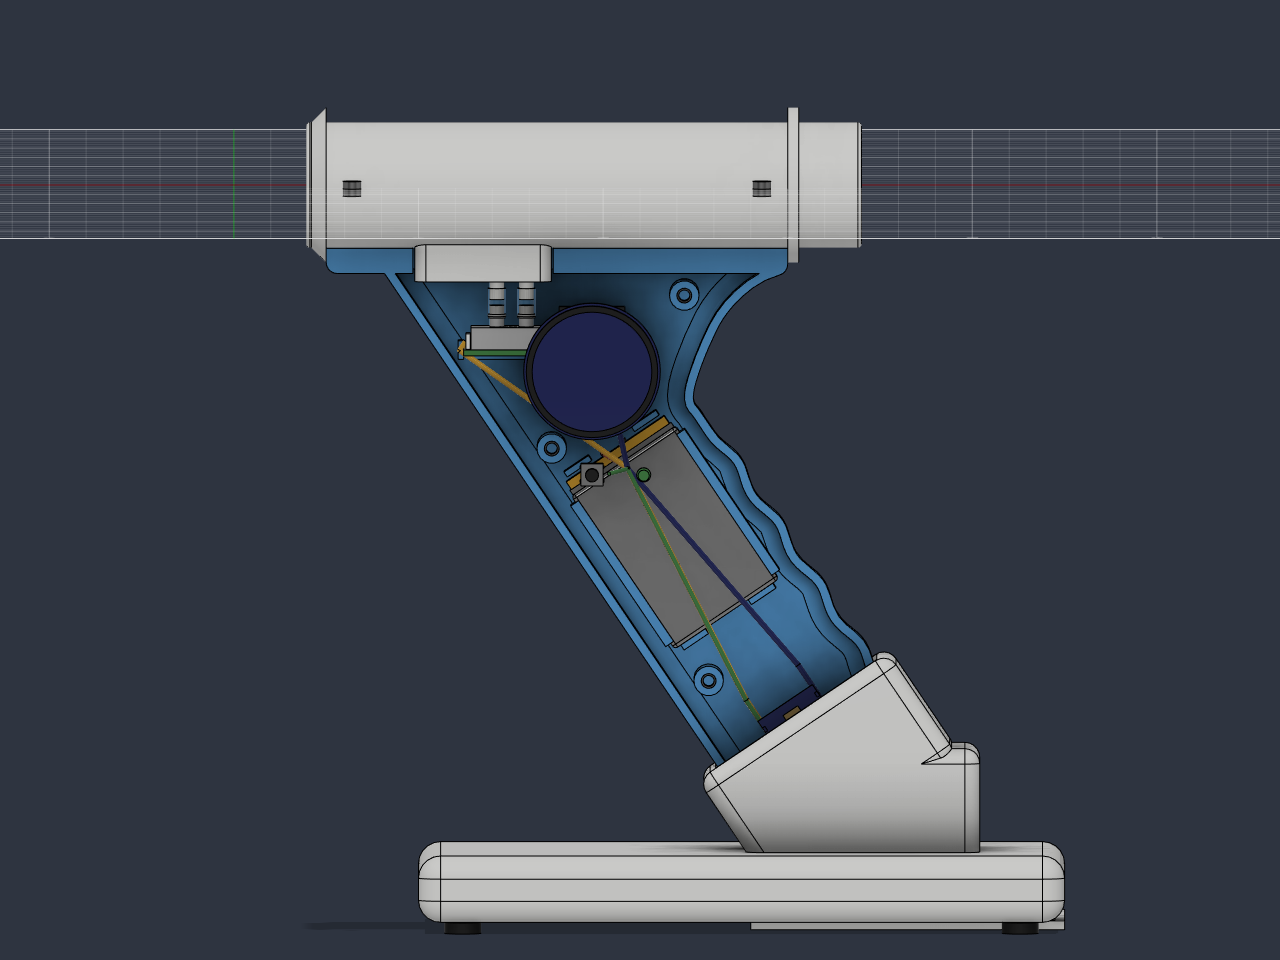
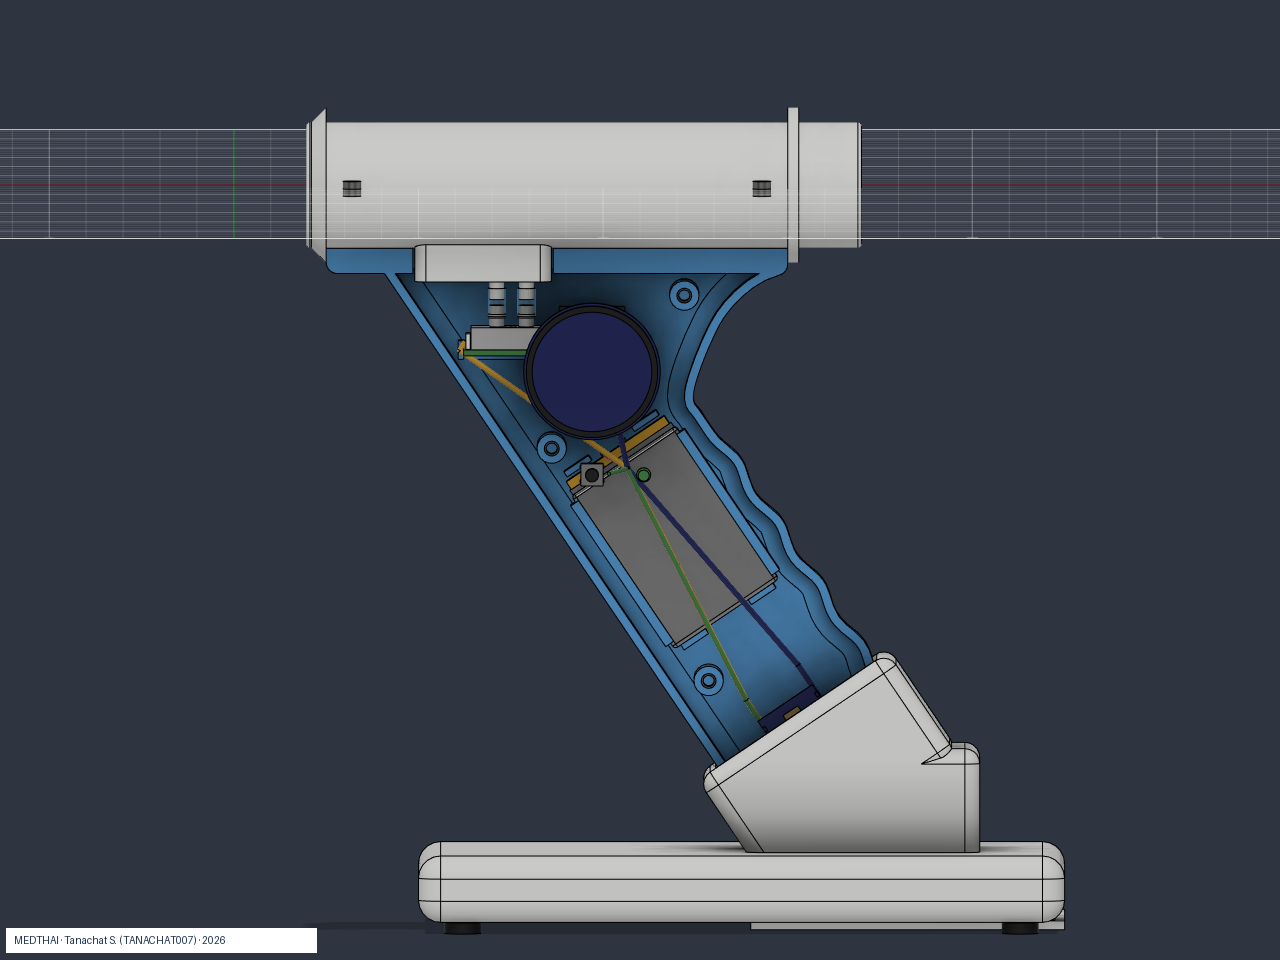
Add authorship credit: licenses, CREDITS, file headers, STL/STEP metadata, watermarks

Changed region(s): [[0.0, 0.9688, 0.25, 1.0]]

diff --git a/10_manual/web/index.html b/10_manual/web/index.html
@@ -1,6 +1,9 @@
 <!doctype html>
 <html lang="th">
 <head>
+<!-- CREDIT-STAMP: DIY IoT Spirometer - designed by Tanachat S. (TANACHAT007) / MEDTHAI - 2026 - https://github.com/TANACHAT007/diy-spirometer -->
+<meta name="author" content="Tanachat S. (TANACHAT007) / MEDTHAI">
+
 <meta charset="utf-8">
 <meta name="viewport" content="width=device-width,initial-scale=1">
 <title>Spiro Dashboard</title>
@@ -135,5 +138,6 @@ if(localStorage.th)document.documentElement.dataset.theme=localStorage.th;
 $('c_db').value=cfg.db||'';$('c_dev').value=cfg.dev||'';$('c_auth').value=cfg.auth||'';$('c_pred').value=cfg.pred||'';
 $('role').onchange();applyText();load();setInterval(load,5000);addEventListener('resize',draw);
 </script>
+<div class="credit-footer" style="text-align:center;font-size:12px;opacity:.7;padding:18px 0 28px">ออกแบบโดย Tanachat S. (TANACHAT007) · ทีม MEDTHAI · 2026</div>
 </body>
 </html>

diff --git a/10_manual/web/dashboard_artifact.html b/10_manual/web/dashboard_artifact.html
@@ -1,3 +1,5 @@
+<!-- CREDIT-STAMP: DIY IoT Spirometer - designed by Tanachat S. (TANACHAT007) / MEDTHAI - 2026 - https://github.com/TANACHAT007/diy-spirometer -->
+<meta name="author" content="Tanachat S. (TANACHAT007) / MEDTHAI">
 
 <title>Spiro Dashboard</title>
 <meta name="claude:viewport-fit-sides" content="cover">
@@ -131,3 +133,4 @@ if(localStorage.th)document.documentElement.dataset.theme=localStorage.th;
 $('c_db').value=cfg.db||'';$('c_dev').value=cfg.dev||'';$('c_auth').value=cfg.auth||'';$('c_pred').value=cfg.pred||'';
 $('role').onchange();applyText();load();setInterval(load,5000);addEventListener('resize',draw);
 </script>
+<div class="credit-footer" style="text-align:center;font-size:12px;opacity:.7;padding:18px 0 28px">ออกแบบโดย Tanachat S. (TANACHAT007) · ทีม MEDTHAI · 2026</div>

diff --git a/10_manual/web/product_page.html b/10_manual/web/product_page.html
@@ -1,3 +1,5 @@
+<!-- CREDIT-STAMP: DIY IoT Spirometer - designed by Tanachat S. (TANACHAT007) / MEDTHAI - 2026 - https://github.com/TANACHAT007/diy-spirometer -->
+<meta name="author" content="Tanachat S. (TANACHAT007) / MEDTHAI">
 <title>DIY IoT Spirometer</title>
 <meta name="claude:viewport-fit-sides" content="cover">
 <link rel="preconnect" href="https://fonts.googleapis.com">
@@ -406,3 +408,4 @@ $("run").onclick=()=>{
 };
 drawFV(); requestAnimationFrame(draw);
 </script>
+<div class="credit-footer" style="text-align:center;font-size:12px;opacity:.7;padding:18px 0 28px">ออกแบบโดย Tanachat S. (TANACHAT007) · ทีม MEDTHAI · 2026</div>

diff --git a/10_manual/web/product_page.src.html b/10_manual/web/product_page.src.html
@@ -1,3 +1,5 @@
+<!-- CREDIT-STAMP: DIY IoT Spirometer - designed by Tanachat S. (TANACHAT007) / MEDTHAI - 2026 - https://github.com/TANACHAT007/diy-spirometer -->
+<meta name="author" content="Tanachat S. (TANACHAT007) / MEDTHAI">
 <title>DIY IoT Spirometer</title>
 <meta name="claude:viewport-fit-sides" content="cover">
 <link rel="preconnect" href="https://fonts.googleapis.com">
@@ -370,3 +372,4 @@ $("run").onclick=()=>{
 };
 drawFV(); requestAnimationFrame(draw);
 </script>
+<div class="credit-footer" style="text-align:center;font-size:12px;opacity:.7;padding:18px 0 28px">ออกแบบโดย Tanachat S. (TANACHAT007) · ทีม MEDTHAI · 2026</div>

diff --git a/apply_credit.py b/apply_credit.py
@@ -1,0 +1,145 @@
+"""Stamps authorship credit into every deliverable so it travels with each download.
+Edit NAME / TEAM / URL below, then run:  py apply_credit.py   (idempotent: re-running just refreshes the stamp)
+Touches: LICENSE, LICENSE-DESIGN, CREDITS.md, README header, source-file headers, HTML meta+footer, STL header bytes, STEP header, render watermarks.
+"""
+import os, re, struct
+NAME = 'Tanachat S.'
+HANDLE = 'TANACHAT007'
+TEAM = 'MEDTHAI'
+URL = 'https://github.com/TANACHAT007/diy-spirometer'
+YEAR = '2026'
+LINE = f'DIY IoT Spirometer - designed by {NAME} ({HANDLE}) / {TEAM} - {YEAR} - {URL}'
+TAG = 'CREDIT-STAMP'
+ROOT = os.path.dirname(os.path.abspath(__file__))
+P = lambda *a: os.path.join(ROOT, *a)
+
+def w(path, text):
+    open(path, 'w', encoding='utf-8', newline='\n').write(text)
+
+# ---- license + credits files
+w(P('LICENSE'), f"""MIT License (source code: firmware, model.py, scripts, web pages)
+
+Copyright (c) {YEAR} {NAME} ({HANDLE}) / {TEAM}
+
+Permission is hereby granted, free of charge, to any person obtaining a copy of this software and associated documentation files
+(the "Software"), to deal in the Software without restriction, including without limitation the rights to use, copy, modify, merge,
+publish, distribute, sublicense, and/or sell copies of the Software, and to permit persons to whom the Software is furnished to do so,
+subject to the following conditions:
+
+The above copyright notice and this permission notice shall be included in all copies or substantial portions of the Software.
+
+THE SOFTWARE IS PROVIDED "AS IS", WITHOUT WARRANTY OF ANY KIND, EXPRESS OR IMPLIED, INCLUDING BUT NOT LIMITED TO THE WARRANTIES OF
+MERCHANTABILITY, FITNESS FOR A PARTICULAR PURPOSE AND NONINFRINGEMENT. IN NO EVENT SHALL THE AUTHORS OR COPYRIGHT HOLDERS BE LIABLE
+FOR ANY CLAIM, DAMAGES OR OTHER LIABILITY, WHETHER IN AN ACTION OF CONTRACT, TORT OR OTHERWISE, ARISING FROM, OUT OF OR IN CONNECTION
+WITH THE SOFTWARE OR THE USE OR OTHER DEALINGS IN THE SOFTWARE.
+
+NOT A MEDICAL DEVICE: this project is an educational / screening prototype and has not been clinically validated.
+""")
+w(P('LICENSE-DESIGN'), f"""Creative Commons Attribution 4.0 International (CC BY 4.0)
+Applies to: CAD models, STL/STEP files, renders, PCB files, BOM, manuals, posters, written documents.
+
+Copyright (c) {YEAR} {NAME} ({HANDLE}) / {TEAM}
+
+You are free to share and adapt this material for any purpose, even commercially, as long as you give appropriate credit:
+  "{LINE}"
+provide a link to the license, and indicate if changes were made.
+Full text: https://creativecommons.org/licenses/by/4.0/legalcode
+""")
+w(P('CREDITS.md'), f"""# Credits
+
+**Designed and built by {NAME}** (GitHub: [{HANDLE}](https://github.com/{HANDLE})) - team **{TEAM}**, {YEAR}.
+
+If you reuse, remix or print this work, please keep this credit:
+
+> {LINE}
+
+- Code: MIT (`LICENSE`) - keep the copyright notice.
+- Designs / documents / models: CC BY 4.0 (`LICENSE-DESIGN`) - attribution required.
+- Prepared for International Youth Summit (IYS) 2026, sub-theme Health.
+
+Third-party parts are credited to their makers (Sensirion SDP810, Seeed XIAO ESP32, GC9A01 modules); their names are used only to identify compatible parts.
+""")
+
+# ---- README header
+rd = open(P('README.md'), encoding='utf-8').read()
+rd = re.sub(r'<!-- ' + TAG + r' -->.*?<!-- /' + TAG + r' -->\n*', '', rd, flags=re.S)
+rd = f"<!-- {TAG} -->\n> **Designed by {NAME} ({HANDLE}) / {TEAM}, {YEAR}** - please keep this credit when you use or share this work. See [CREDITS.md](CREDITS.md).\n<!-- /{TAG} -->\n\n" + rd
+w(P('README.md'), rd)
+
+# ---- source headers
+def stamp_text(path, c):
+    t = open(path, encoding='utf-8', errors='replace').read()
+    t = re.sub(r'^' + re.escape(c) + r' ' + TAG + r'.*\n', '', t, flags=re.M)
+    head = f'{c} {TAG}: (c) {YEAR} {NAME} ({HANDLE}) / {TEAM} - {URL} - MIT\n'
+    if t.startswith('#!') or t.startswith('# -*-'):
+        l1, rest = t.split('\n', 1); t = l1 + '\n' + head + rest
+    else:
+        t = head + t
+    open(path, 'w', encoding='utf-8', newline='\n').write(t)
+
+for root, _, files in os.walk(ROOT):
+    if '.git' in root.split(os.sep):
+        continue
+    for f in files:
+        p = os.path.join(root, f); ext = os.path.splitext(f)[1].lower()
+        if f == 'apply_credit.py':
+            continue
+        if ext == '.ino':
+            stamp_text(p, '//')
+        elif ext == '.py':
+            stamp_text(p, '#')
+        elif ext == '.html':
+            t = open(p, encoding='utf-8').read()
+            t = re.sub(r'<!-- ' + TAG + r'.*?-->\n?', '', t)
+            t = re.sub(r'<meta name="author"[^>]*>\n?', '', t)
+            t = re.sub(r'<div class="credit-footer".*?</div>\n?', '', t, flags=re.S)
+            meta = f'<!-- {TAG}: {LINE} -->\n<meta name="author" content="{NAME} ({HANDLE}) / {TEAM}">\n'
+            foot = (f'<div class="credit-footer" style="text-align:center;font-size:12px;opacity:.7;padding:18px 0 28px">'
+                    f'ออกแบบโดย {NAME} ({HANDLE}) · ทีม {TEAM} · {YEAR}</div>\n')
+            if '<head>' in t:
+                t = t.replace('<head>', '<head>\n' + meta, 1)
+                t = t.replace('</body>', foot + '</body>', 1) if '</body>' in t else t + foot
+            else:
+                t = meta + t + foot
+            open(p, 'w', encoding='utf-8', newline='\n').write(t)
+
+# ---- STL: binary header carries the credit (80 bytes)
+note = (f'{NAME} / {TEAM} {YEAR} CC-BY-4.0 {URL}').encode('ascii', 'replace')[:80].ljust(80, b' ')
+for root, _, files in os.walk(P('04_print_stl')):
+    for f in files:
+        if f.lower().endswith('.stl'):
+            p = os.path.join(root, f); b = open(p, 'rb').read()
+            if b[:5] == b'solid' and b'facet' in b[:300]:
+                continue                              # ASCII STL: leave untouched
+            n = struct.unpack('<I', b[80:84])[0]
+            if 84 + 50 * n == len(b):
+                open(p, 'wb').write(note + b[80:])
+
+# ---- STEP header
+for root, _, files in os.walk(P('06_cad_export')):
+    for f in files:
+        if f.lower().endswith(('.step', '.stp')):
+            p = os.path.join(root, f); t = open(p, encoding='utf-8', errors='replace').read()
+            m = re.search(r"FILE_NAME\(([^;]*?)\);", t, re.S)
+            if m:
+                parts = m.group(1)
+                new = re.sub(r"\('[^']*'\)", f"('{NAME} ({HANDLE})')", parts, count=1)
+                new = re.sub(r"\('[^']*'\)(?=,\s*'[^']*',\s*'[^']*',)", f"('{TEAM} - {YEAR} - CC BY 4.0')", new, count=1)
+                t = t.replace(m.group(1), new, 1)
+                open(p, 'w', encoding='utf-8', newline='\n').write(t)
+
+# ---- render watermarks (idempotent: originals are re-rendered by model.py, stamp is drawn on a copy of the bottom strip)
+try:
+    from PIL import Image, ImageDraw
+    for root, _, files in os.walk(P('03_renders')):
+        for f in files:
+            if f.lower().endswith('.png') and not f.startswith('_'):
+                p = os.path.join(root, f); im = Image.open(p).convert('RGBA'); d = ImageDraw.Draw(im, 'RGBA')
+                txt = f'{TEAM} · {NAME} ({HANDLE}) · {YEAR}'
+                x, y = 14, im.height - 26
+                d.rectangle([x - 8, y - 6, x + 8 + 7 * len(txt), y + 18], fill=(255, 255, 255, 150))
+                d.text((x, y), txt, fill=(30, 50, 80, 255))
+                im.convert('RGB').save(p)
+except Exception as e:
+    print('watermark skipped:', e)
+print('credit stamped:', LINE)

diff --git a/02_design/model.py b/02_design/model.py
@@ -1,3 +1,4 @@
+# CREDIT-STAMP: (c) 2026 Tanachat S. (TANACHAT007) / MEDTHAI - https://github.com/TANACHAT007/diy-spirometer - MIT
 # DIY IoT Spirometer (ndd-style pistol grip + charging dock) — Fusion model
 # run: copy to ~/fusion-bridge/inbox/<ts>_model.py ; result ~/fusion-bridge/outbox/<ts>_model.json
 # World: x = along the flow tube (mouth end x=0 → exit x=170), z up (tube axis z=0), y = across the body.

diff --git a/02_design/model_v1_backup.py b/02_design/model_v1_backup.py
@@ -1,3 +1,4 @@
+# CREDIT-STAMP: (c) 2026 Tanachat S. (TANACHAT007) / MEDTHAI - https://github.com/TANACHAT007/diy-spirometer - MIT
 # DIY IoT Spirometer (ndd-style pistol grip + charging dock) — Fusion model
 # run: copy to ~/fusion-bridge/inbox/<ts>_model.py ; result ~/fusion-bridge/outbox/<ts>_model.json
 # World: x = along the flow tube (mouth end x=0 → exit x=170), z up (tube axis z=0), y = across the body.

diff --git a/02_design/model_v2_backup.py b/02_design/model_v2_backup.py
@@ -1,3 +1,4 @@
+# CREDIT-STAMP: (c) 2026 Tanachat S. (TANACHAT007) / MEDTHAI - https://github.com/TANACHAT007/diy-spirometer - MIT
 # DIY IoT Spirometer (ndd-style pistol grip + charging dock) — Fusion model
 # run: copy to ~/fusion-bridge/inbox/<ts>_model.py ; result ~/fusion-bridge/outbox/<ts>_model.json
 # World: x = along the flow tube (mouth end x=0 → exit x=170), z up (tube axis z=0), y = across the body.

diff --git a/09_bom/make_bom.py b/09_bom/make_bom.py
@@ -1,3 +1,4 @@
+# CREDIT-STAMP: (c) 2026 Tanachat S. (TANACHAT007) / MEDTHAI - https://github.com/TANACHAT007/diy-spirometer - MIT
 # เครื่องวัดสมรรถภาพปอดพิมพ์ 3D (Spirometer) — BOM (python make_bom.py) → bom.md + bom.csv next to this file
 import os, csv, urllib.parse as u
 HERE = os.path.dirname(os.path.abspath(__file__))

diff --git a/10_manual/make_manual.py b/10_manual/make_manual.py
@@ -1,3 +1,4 @@
+# CREDIT-STAMP: (c) 2026 Tanachat S. (TANACHAT007) / MEDTHAI - https://github.com/TANACHAT007/diy-spirometer - MIT
 # Builds every manual of this project → 10_manual/<name>.pdf / .docx / .html  (rules: references/documentation.md)
 # Images: Fusion job with fusion_docs.step_shots/part_thumbs → collect_doc(PREFIX, IMG); then annotate here.
 import os, sys, json

diff --git a/10_manual/web/build_product_page.py b/10_manual/web/build_product_page.py
@@ -1,3 +1,4 @@
+# CREDIT-STAMP: (c) 2026 Tanachat S. (TANACHAT007) / MEDTHAI - https://github.com/TANACHAT007/diy-spirometer - MIT
 """Builds product_page.html (soft 3D-cartoon style) from product_page.src.html + restyle_soft3d.css + draw_soft3d.js."""
 import base64, os, re
 H = os.path.dirname(os.path.abspath(__file__))

diff --git a/02_design/feasibility_check.py b/02_design/feasibility_check.py
@@ -1,3 +1,4 @@
+# CREDIT-STAMP: (c) 2026 Tanachat S. (TANACHAT007) / MEDTHAI - https://github.com/TANACHAT007/diy-spirometer - MIT
 # diy-spirometer feasibility: Venturi D28/d23 + Sensirion SDP810-500Pa + XIAO ESP32-S3 + LiPo 603450 + dock
 # run: py feasibility_check.py  -> feasibility.md
 import math, os
